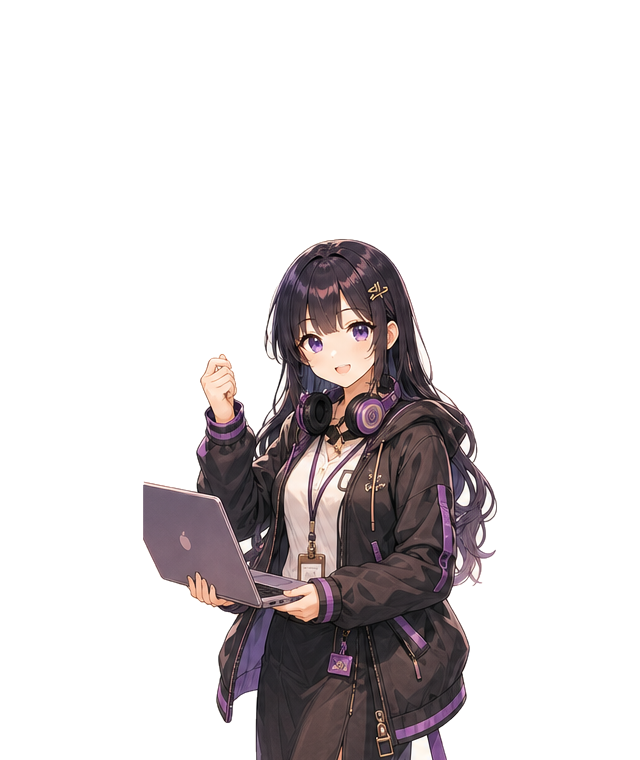
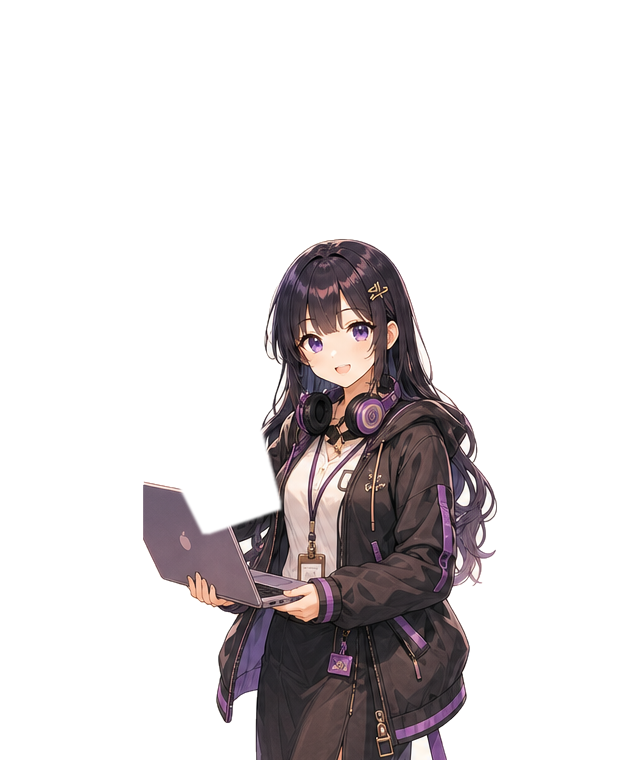
Fix Rika hand artifact and staff panel nav

Changed region(s): [[0.2812, 0.4539, 0.4375, 0.7263]]

diff --git a/ui/src/kawaii/KawaiiStaffRoom.tsx b/ui/src/kawaii/KawaiiStaffRoom.tsx
@@ -20,6 +20,19 @@ import { kawaiiCeoLabel, kawaiiStaffDisplayParts, kawaiiStaffTitle } from "./dis
 import { useKawaiiSceneAssets } from "./useKawaiiSceneAssets";
 
 export type KawaiiStaffFilterTab = "all" | "active" | "paused" | "error";
+export type KawaiiStaffInfoPanelKey = "basic" | "signal" | "quest" | "org";
+
+const kawaiiStaffInfoPanels = [
+  { key: "basic", label: "기본 정보", Icon: Shield, className: "text-orange-500" },
+  { key: "signal", label: "운영 신호", Icon: Target, className: "text-green-500" },
+  { key: "quest", label: "배정된 Quest", Icon: FileText, className: "text-coral-500" },
+  { key: "org", label: "조직", Icon: Users, className: "text-purple-500" },
+] satisfies Array<{
+  key: KawaiiStaffInfoPanelKey;
+  label: string;
+  Icon: typeof Shield;
+  className: string;
+}>;
 
 function mapVisuals(sets: KawaiiAssetSet[] | undefined) {
   const map = new Map<string, KawaiiAssetSet>();
@@ -62,6 +75,16 @@ function displayParts(agent: Agent | null, index?: number) {
   return kawaiiStaffDisplayParts(agent, characterForAgent(agent, index).name);
 }
 
+export function nextKawaiiStaffInfoPanel(
+  current: KawaiiStaffInfoPanelKey,
+  delta: number,
+): KawaiiStaffInfoPanelKey {
+  const currentIndex = kawaiiStaffInfoPanels.findIndex((panel) => panel.key === current);
+  const safeIndex = currentIndex >= 0 ? currentIndex : 0;
+  const nextIndex = (safeIndex + delta + kawaiiStaffInfoPanels.length) % kawaiiStaffInfoPanels.length;
+  return kawaiiStaffInfoPanels[nextIndex]!.key;
+}
+
 export function KawaiiStaffRoom() {
   const { selectedCompanyId } = useCompany();
   const { openNewAgent } = useDialogActions();
@@ -69,6 +92,7 @@ export function KawaiiStaffRoom() {
   const { backgroundImage } = useKawaiiSceneAssets();
   const location = useLocation();
   const [selectedId, setSelectedId] = useState<string | null>(null);
+  const [selectedInfoPanel, setSelectedInfoPanel] = useState<KawaiiStaffInfoPanelKey>("basic");
 
   useEffect(() => {
     setBreadcrumbs([{ label: "Staff Room" }]);
@@ -130,11 +154,57 @@ export function KawaiiStaffRoom() {
     }
   }, [visibleAgents, selectedId]);
 
-  function selectRelativeStaff(delta: number) {
-    if (visibleAgents.length <= 1) return;
-    const currentIndex = selectedIndex >= 0 ? selectedIndex : 0;
-    const nextIndex = (currentIndex + delta + visibleAgents.length) % visibleAgents.length;
-    setSelectedId(visibleAgents[nextIndex]!.id);
+  const selectedInfoPanelMeta =
+    kawaiiStaffInfoPanels.find((panel) => panel.key === selectedInfoPanel) ?? kawaiiStaffInfoPanels[0]!;
+  const SelectedInfoIcon = selectedInfoPanelMeta.Icon;
+
+  function selectRelativeInfoPanel(delta: number) {
+    setSelectedInfoPanel((current) => nextKawaiiStaffInfoPanel(current, delta));
+  }
+
+  function renderSelectedInfoPanel() {
+    if (selectedInfoPanel === "signal") {
+      return (
+        <div className="kawaii-list">
+          <div><span>이번 달 지출</span><strong>{selected ? formatCents(selected.spentMonthlyCents ?? 0) : "-"}</strong></div>
+          <div><span>예산 한도</span><strong>{selected ? formatCents(selected.budgetMonthlyCents ?? 0) : "-"}</strong></div>
+          <div><span>마지막 신호</span><strong>{lastHeartbeatLabel(selected)}</strong></div>
+          <div><span>일시정지 사유</span><strong>{selected?.pauseReason ?? "없음"}</strong></div>
+        </div>
+      );
+    }
+
+    if (selectedInfoPanel === "quest") {
+      return (
+        <div className="kawaii-list">
+          {(assignedIssues ?? []).slice(0, 4).map((issue) => (
+            <div key={issue.id}>
+              <span>{issue.identifier ?? issue.title}</span>
+              <strong>{issue.status.replace(/_/g, " ")}</strong>
+            </div>
+          ))}
+          {(assignedIssues ?? []).length === 0 && <div><span>배정된 Quest 없음</span><strong>정리됨</strong></div>}
+        </div>
+      );
+    }
+
+    if (selectedInfoPanel === "org") {
+      return (
+        <div className="kawaii-list">
+          <div><span>보고 대상</span><strong>{selectedManagerDisplay?.label ?? kawaiiCeoLabel(session)}</strong></div>
+          <div><span>직접 보고</span><strong>{directReportCount}</strong></div>
+        </div>
+      );
+    }
+
+    return (
+      <div className="kawaii-list">
+        <div><span>이름</span><strong>{selectedDisplay?.name ?? "-"}</strong></div>
+        <div><span>직책</span><strong>{selectedDisplay?.title ?? "-"}</strong></div>
+        <div><span>상태</span><strong>{selected?.status ?? "-"}</strong></div>
+        <div><span>어댑터</span><strong>{selected?.adapterType ?? "-"}</strong></div>
+      </div>
+    );
   }
 
   return (
@@ -175,9 +245,10 @@ export function KawaiiStaffRoom() {
             <button
               type="button"
               className="kawaii-staff-stage__nav kawaii-staff-stage__nav--prev"
-              onClick={() => selectRelativeStaff(-1)}
-              disabled={visibleAgents.length <= 1}
-              aria-label="이전 Staff"
+              onClick={() => selectRelativeInfoPanel(-1)}
+              disabled={!selected}
+              aria-label="이전 정보 패널"
+              title="이전 정보 패널"
             >
               <ChevronLeft className="h-4 w-4" />
             </button>
@@ -192,9 +263,10 @@ export function KawaiiStaffRoom() {
             <button
               type="button"
               className="kawaii-staff-stage__nav kawaii-staff-stage__nav--next"
-              onClick={() => selectRelativeStaff(1)}
-              disabled={visibleAgents.length <= 1}
-              aria-label="다음 Staff"
+              onClick={() => selectRelativeInfoPanel(1)}
+              disabled={!selected}
+              aria-label="다음 정보 패널"
+              title="다음 정보 패널"
             >
               <ChevronRight className="h-4 w-4" />
             </button>
@@ -210,46 +282,27 @@ export function KawaiiStaffRoom() {
       </section>
 
       <section className="kawaii-profile-grid">
-        <div className="kawaii-panel kawaii-profile-card">
-          <Shield className="h-5 w-5 text-orange-500" />
-          <strong>기본 정보</strong>
-          <div className="kawaii-list">
-            <div><span>이름</span><strong>{selectedDisplay?.name ?? "-"}</strong></div>
-            <div><span>직책</span><strong>{selectedDisplay?.title ?? "-"}</strong></div>
-            <div><span>상태</span><strong>{selected?.status ?? "-"}</strong></div>
-            <div><span>어댑터</span><strong>{selected?.adapterType ?? "-"}</strong></div>
-          </div>
+        <div className="kawaii-profile-tabs" role="tablist" aria-label="Staff 정보 패널">
+          {kawaiiStaffInfoPanels.map((panel) => (
+            <button
+              type="button"
+              key={panel.key}
+              role="tab"
+              aria-selected={selectedInfoPanel === panel.key}
+              className={selectedInfoPanel === panel.key ? "kawaii-profile-tab is-active" : "kawaii-profile-tab"}
+              onClick={() => setSelectedInfoPanel(panel.key)}
+            >
+              <panel.Icon className={`h-4 w-4 ${panel.className}`} />
+              <span>{panel.label}</span>
+            </button>
+          ))}
         </div>
-        <div className="kawaii-panel kawaii-profile-card">
-          <Target className="h-5 w-5 text-green-500" />
-          <strong>운영 신호</strong>
-          <div className="kawaii-list">
-            <div><span>이번 달 지출</span><strong>{selected ? formatCents(selected.spentMonthlyCents ?? 0) : "-"}</strong></div>
-            <div><span>예산 한도</span><strong>{selected ? formatCents(selected.budgetMonthlyCents ?? 0) : "-"}</strong></div>
-            <div><span>마지막 신호</span><strong>{lastHeartbeatLabel(selected)}</strong></div>
-            <div><span>일시정지 사유</span><strong>{selected?.pauseReason ?? "없음"}</strong></div>
+        <div className="kawaii-panel kawaii-profile-card kawaii-profile-card--featured" role="tabpanel">
+          <div className="kawaii-profile-card__heading">
+            <SelectedInfoIcon className={`h-5 w-5 ${selectedInfoPanelMeta.className}`} />
+            <strong>{selectedInfoPanelMeta.label}</strong>
           </div>
-        </div>
-        <div className="kawaii-panel kawaii-profile-card">
-          <FileText className="h-5 w-5 text-coral-500" />
-          <strong>배정된 Quest</strong>
-          <div className="kawaii-list">
-            {(assignedIssues ?? []).slice(0, 4).map((issue) => (
-              <div key={issue.id}>
-                <span>{issue.identifier ?? issue.title}</span>
-                <strong>{issue.status.replace(/_/g, " ")}</strong>
-              </div>
-            ))}
-            {(assignedIssues ?? []).length === 0 && <div><span>배정된 Quest 없음</span><strong>정리됨</strong></div>}
-          </div>
-        </div>
-        <div className="kawaii-panel kawaii-profile-card">
-          <Users className="h-5 w-5 text-purple-500" />
-          <strong>조직</strong>
-          <div className="kawaii-list">
-            <div><span>보고 대상</span><strong>{selectedManagerDisplay?.label ?? kawaiiCeoLabel(session)}</strong></div>
-            <div><span>직접 보고</span><strong>{directReportCount}</strong></div>
-          </div>
+          {renderSelectedInfoPanel()}
         </div>
       </section>
     </div>

diff --git a/server/src/services/kawaii/prompt-builder.ts b/server/src/services/kawaii/prompt-builder.ts
@@ -46,6 +46,9 @@ const baseNegative = [
   "logo",
   "UI chrome",
   "extra fingers",
+  "extra hands",
+  "extra arms",
+  "duplicate limbs",
   "distorted hands",
   "photorealistic face",
   "skin discoloration",
@@ -116,6 +119,7 @@ export function buildStaffPromptPlan(agent: KawaiiPromptStaff): KawaiiPromptPlan
     "Character placement: full body on the right side, character center at 76% of canvas width, body height 82-90% of canvas height, head top between 5-10%, feet between 92-97%, right edge no closer than 4%, no clipping.",
     "Leave the left 58% of the canvas as readable warm office atmosphere for the interface text layer.",
     "Preserve the source character identity, face, hair, outfit family, pose language, both legs, both feet, both shoes, both arms, hands, and accessories.",
+    "Anatomy constraint: exactly two arms and exactly two hands total; do not add a duplicate raised hand when the character holds an accessory.",
     "Paint the room behind and around the character so the final image feels like a single illustrated scene.",
   ].join(" ");
   const sceneNegativePrompt = [
@@ -136,6 +140,7 @@ export function buildStaffPromptPlan(agent: KawaiiPromptStaff): KawaiiPromptPlan
     "Generate a background-removed visual novel dialogue cut-in PNG.",
     "Crop is waist-up, ending at the waist or upper abdomen; no legs or lower body are visible.",
     "Head, hair, shoulders, hands, and role accessory remain visible.",
+    "Anatomy constraint: exactly two arms and exactly two hands total; accessories must not create extra hands.",
     "Character faces slightly toward the CEO/operator and fits a lower-right dialogue dock.",
     "No scene background, no rectangle, no frame, no UI text.",
   ].join(" ");

diff --git a/ui/src/kawaii/theme.css b/ui/src/kawaii/theme.css
@@ -1222,13 +1222,63 @@
 }
 
 .kawaii-profile-grid {
+  display: flex;
+  min-width: 0;
+  flex-direction: column;
+  gap: 14px;
+}
+
+.kawaii-profile-tabs {
   display: grid;
   grid-template-columns: 1fr 1fr;
-  gap: 14px;
+  gap: 8px;
+}
+
+.kawaii-profile-tab {
+  display: flex;
+  min-width: 0;
+  align-items: center;
+  gap: 8px;
+  border: 1px solid rgba(255, 127, 110, 0.16);
+  border-radius: 14px;
+  background: rgba(255, 253, 247, 0.62);
+  padding: 10px 11px;
+  color: rgba(56, 37, 31, 0.68);
+  font-size: 12px;
+  font-weight: 800;
+}
+
+.kawaii-profile-tab:hover {
+  transform: translateY(-1px);
+  border-color: rgba(255, 127, 110, 0.34);
+  background: rgba(255, 248, 240, 0.9);
+}
+
+.kawaii-profile-tab.is-active {
+  border-color: rgba(151, 103, 224, 0.42);
+  background: rgba(248, 237, 255, 0.82);
+  box-shadow: 0 10px 24px rgba(122, 77, 162, 0.1);
+  color: var(--kawaii-ink);
+}
+
+.kawaii-profile-tab span {
+  overflow: hidden;
+  text-overflow: ellipsis;
+  white-space: nowrap;
 }
 
 .kawaii-profile-card {
   padding: 16px;
+}
+
+.kawaii-profile-card--featured {
+  min-height: 310px;
+}
+
+.kawaii-profile-card__heading {
+  display: flex;
+  align-items: center;
+  gap: 10px;
 }
 
 .kawaii-list {

diff --git a/ui/src/kawaii/KawaiiStaffRoom.test.ts b/ui/src/kawaii/KawaiiStaffRoom.test.ts
@@ -2,6 +2,7 @@ import { describe, expect, it } from "vitest";
 import {
   kawaiiStaffFilterFromPathname,
   matchesKawaiiStaffFilter,
+  nextKawaiiStaffInfoPanel,
   type KawaiiStaffFilterTab,
 } from "./KawaiiStaffRoom";
 
@@ -23,5 +24,15 @@ describe("kawaii staff route filters", () => {
     expect(visible("paused", "paused")).toBe(true);
     expect(visible("error", "error")).toBe(true);
     expect(visible("all", "terminated")).toBe(false);
+  });
+});
+
+describe("kawaii staff info panel controls", () => {
+  it("cycles profile panels independently from staff selection", () => {
+    expect(nextKawaiiStaffInfoPanel("basic", 1)).toBe("signal");
+    expect(nextKawaiiStaffInfoPanel("signal", 1)).toBe("quest");
+    expect(nextKawaiiStaffInfoPanel("quest", 1)).toBe("org");
+    expect(nextKawaiiStaffInfoPanel("org", 1)).toBe("basic");
+    expect(nextKawaiiStaffInfoPanel("basic", -1)).toBe("org");
   });
 });

diff --git a/ui/src/kawaii/characterLibrary.ts b/ui/src/kawaii/characterLibrary.ts
@@ -19,7 +19,7 @@ export type KawaiiCharacter = {
   moods: string[];
 };
 
-export const kawaiiStaticAssetVersion = "20260513-waist-cutins";
+export const kawaiiStaticAssetVersion = "20260514-rika-hand-panel-nav";
 
 function kawaiiStaticAsset(pathname: string): string {
   return `${pathname}?v=${kawaiiStaticAssetVersion}`;

diff --git a/CHANGELOG.kawaii.md b/CHANGELOG.kawaii.md
@@ -12,3 +12,4 @@
 - Hardened the launcher so help flags are side-effect free and the default fork launch path starts from an available 3101+ port unless a port is explicitly configured.
 - Validated kawaii menu targets against known routes and fixed mismatched runtime and project-creation menu actions.
 - Polished Kawaii interaction and identity rules across alarm controls, dialogue choices, Staff display, Korean copy, and Staff Room character staging.
+- Fixed the Rika dialogue scene hand artifact, tightened Staff image prompts against duplicate hands/arms, and remapped Staff Room arrow buttons to cycle detail panels instead of Staff people.
